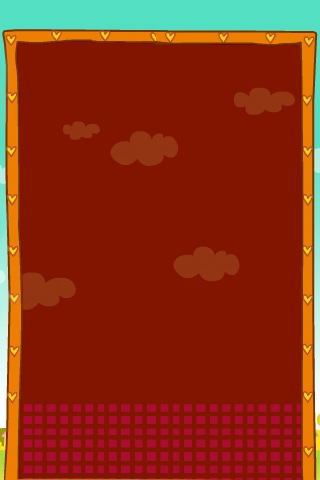
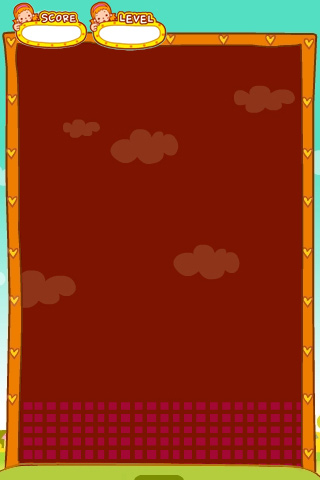
base

diff --git a/Game/src/Layer/GameLayer.js b/Game/src/Layer/GameLayer.js
@@ -6,16 +6,34 @@ PP.GameLayer = cc.Layer.extend({
     tmpBubble: cc.p(0, 0),
     _rotation: 0,
     player: null,
+    container:null,
     init: function () {
         this._super();
         window.layer = this;
+        var t = sys.platform;
+        var os = sys.os;
         this.setTouchEnabled(true);
+        /*if(t = 'browser'){
+            this.setMouseEnabled(true);
+        }
+        else{
+            this.setTouchEnabled(true);
+        }*/
+
+
+        if(cc.renderMode = cc.WEBGL){
+            this.container = cc.SpriteBatchNode.create(Bubble_png);
+            this.addChild(this.container,100);
+        }
+        else{
+            this.container = this;
+        }
 
         this.noj = [];
         this.speed = 1116;
         this.diameter = 34;
         this.px = 24;
-        this.py = 480 - 46;
+        this.py = 480 - 52;
         this.poc2 = 3;
         this.deathy = 400;
         this.allst = 30;
@@ -57,9 +75,15 @@ PP.GameLayer = cc.Layer.extend({
         this.isStoped = this.u = this.vib = this.vk = 0;
         this.ga = 3;
 
-        this.player = cc.Sprite.create("res/a2.png");
-        this.player.setPosition(cc.p(160, 16));
-        this.addChild(this.player);
+        this.player = cc.Sprite.create(Turret);
+        this.player.setAnchorPoint(cc.p(0.5,0.31))
+        this.player.setPosition(cc.p(160, 36));
+        this.addChild(this.player,11);
+
+        var pad = cc.Sprite.create(Pad);
+        pad.setPosition(cc.p(160,10));
+        this.addChild(pad,10);
+
         this.setting(this.stg);
         this.newBubble();
     },
@@ -78,7 +102,7 @@ PP.GameLayer = cc.Layer.extend({
             if (level[i] > 0) {
                 var bubble = PP.Bubble.create(level[i]);
                 bubble.setPosition(cc.p(sx, sy));
-                this.addChild(bubble, this.depth, lines * 10 + ars);
+                this.container.addChild(bubble, this.depth, lines * 10 + ars);
                 bubble.colorType = level[i];
                 this.allBubbles.push(bubble);
                 ++this.depth;
@@ -201,7 +225,7 @@ PP.GameLayer = cc.Layer.extend({
                     var nump = np + this.arp[j];
                     var numn = nn + this["arn" + ch][j];
                     var n = nump * 10 +numn;
-                    var child = this.getChildByTag(n);
+                    var child = this.container.getChildByTag(n);
                     if (child && child.colorType < 10) {
                         this.res.push(n);
                     }
@@ -260,7 +284,7 @@ PP.GameLayer = cc.Layer.extend({
                     var nump = np + this.arp[j];
                     var numn = nn + this["arn" + ch][j];
                     var n = nump * 10 + numn;
-                    var child = this.getChildByTag(n);
+                    var child = this.container.getChildByTag(n);
                     if (child && child.colorType == key) {
                         this.res.push(n);
                     }
@@ -338,6 +362,8 @@ PP.GameLayer = cc.Layer.extend({
         }
         var spe = kk * 20;
         //score
+        this.game.getUILayer().addScore(spe);
+        console.log(1)
         /* _parent.sco = _parent.sco + spe;
          _parent.numv(_parent.sco, "scom", 6);
          _parent.spe.sco = spe;
@@ -359,28 +385,40 @@ PP.GameLayer = cc.Layer.extend({
     onTouchesBegan: function (touches) {
         this._super();
         this.mouse = touches[0].getLocation();
-        if (/*this.shts == 1 && */(this.mouse.x > 15 && this.mouse.x < 315)) {
-            var xdis = this.mouse.x - this.player.getPosition().x;
-            var ydis = this.mouse.y - this.player.getPosition().y;
-            var gagy = -(Math.atan2(ydis, xdis) / this.radian - 90);
-            if (gagy < 80 && gagy > -80) {
-                if (gagy != this.player.getRotation()) {
-                    this.player.setRotation(gagy);
-                }
-            }
-            this.gos();
-        }
     },
     onTouchesMoved: function (touches) {
         this._super();
+        this.mouse = touches[0].getLocation();
     },
     onTouchesEnded: function (touches) {
         this._super();
+        this.shoot();
+    },
+    onMouseDown:function(event) {
+        this._super();
+        this.mouse = event.getLocation();
+    },
+    onMouseMoved:function(event){
+        this._super();
+        this.mouse = event.getLocation();
+    },
+    onMouseDragged:function(event) {
+        this._super();
+        this.mouse = event.getLocation();
+    },
+    onMouseUp:function(event) {
+        this._super();
+        this.shoot();
+    },
+    shoot:function(){
+        if (/*this.shts == 1 && */(this.mouse.x > 15 && this.mouse.x < 315)) {
+            this.gos();
+        }
     },
     newBubble: function () {
         this.tmpBubble = PP.Bubble.create(this.colorType);
         this.tmpBubble.setPosition(this.player.getPosition());
-        this.addChild(this.tmpBubble, this.depth);
+        this.container.addChild(this.tmpBubble, this.depth);
         this.tmpBubble.colorType = this.colorType;
 
         var ext = 0 | (Math.random() * 50);
@@ -407,6 +445,15 @@ PP.GameLayer = cc.Layer.extend({
         //_parent.girl.colorType = colorType;
     },
     update: function (dt) {
+        var xdis = this.mouse.x - this.player.getPosition().x;
+        var ydis = this.mouse.y - this.player.getPosition().y;
+        var gagy = -(Math.atan2(ydis, xdis) / this.radian - 90);
+        if (gagy < 80 && gagy > -80) {
+            if (gagy != this.player.getRotation()) {
+                this.player.setRotation(gagy);
+            }
+        }
+
         if (this.isStoped == 1) {
             this.tmpBubble.setPosition(cc.pAdd(this.tmpBubble.getPosition(), cc.p(this.xSpeed * dt, this.ySpeed * dt)));
             for (var i = 0; i < this.allBubblesAmount; i++) {
@@ -424,7 +471,7 @@ PP.GameLayer = cc.Layer.extend({
                     for (var j = 0; j < 6; j++) {
                         var nump = np + this.arp[j];
                         var numn = nn + this["arn" + ch][j];
-                        var isExitBubble = this.getChildByTag(nump * 10 + numn);
+                        var isExitBubble = this.container.getChildByTag(nump * 10 + numn);
                         if (isExitBubble == null) {
                             var radian = this.radian * this.gag[j];
                             var tx = tempBubble.getPosition().x + Math.sin(radian) * this.diameter;
@@ -479,8 +526,8 @@ PP.GameLayer = cc.Layer.extend({
                             this.shts = this.dcup();
                         }
                     }
-                    else if (this.getChildByTag(gubl).colorType == 7) {
-                        var bomb = this.getChildByTag(gubl);
+                    else if (this.container.getChildByTag(gubl).colorType == 7) {
+                        var bomb = this.container.getChildByTag(gubl);
                         bomb.removeFromParent(true);
                         tag = gubl;
                         np = Math.floor(tag / 10);
@@ -492,7 +539,7 @@ PP.GameLayer = cc.Layer.extend({
                         for (var k = 0; k < 6; k++) {
                             nump = np + this.arp[k];
                             numn = nn + this["arn" + ch][k];
-                            var child = this.getChildByTag(nump * 10 + numn);
+                            var child = this.container.getChildByTag(nump * 10 + numn);
                             if (child && child.colorType < 9) {
                                 child.removeFromParent(true);
                                 for (var z = 0; z<this.allBubbles.length ; z++) {
@@ -543,7 +590,7 @@ PP.GameLayer = cc.Layer.extend({
             this.gg = this.noj.length;
             var tmpChild;
             for (var i = 0; i < this.gg; i++) {
-                tmpChild = this.getChildByTag(this.noj[i]);
+                tmpChild = this.container.getChildByTag(this.noj[i]);
                 if(tmpChild){
                     tmpChild.setPositionY(tmpChild.getPositionY()+5 + this.u * 4)
                 }
@@ -551,7 +598,7 @@ PP.GameLayer = cc.Layer.extend({
            /* if (this.u == 25) {
                 this.u = this.isStoped = 0;
                 for (var i = 0; i < this.gg; i++) {
-                    tmpChild = this.getChildByTag(this.noj[i]);
+                    tmpChild = this.container.getChildByTag(this.noj[i]);
                     if(tmpChild){
                         tmpChild.removeFromParent(true);
                     }

diff --git a/Game/src/Layer/UILayer.js b/Game/src/Layer/UILayer.js
@@ -1,0 +1,32 @@
+PP.UILayer = cc.Layer.extend({
+    scoreLabel:null,
+    levelLabel:null,
+    score:0,
+    level:0,
+    init:function(){
+        this._super();
+
+        this.scoreLabel = cc.LabelTTF.create(this.score,  'Arial', 14, cc.size(54,18), cc.TEXT_ALIGNMENT_CENTER);
+        this.scoreLabel.setPosition(cc.p(55,445));
+        this.scoreLabel.setColor(cc.c3b(140,22,0));
+        this.addChild(this.scoreLabel);
+
+        this.levelLabel = cc.LabelTTF.create(this.level,  'Arial', 14, cc.size(54,18), cc.TEXT_ALIGNMENT_CENTER);
+        this.levelLabel.setPosition(cc.p(130,445));
+        this.levelLabel.setColor(cc.c3b(140,22,0));
+        this.addChild(this.levelLabel);
+    },
+    setLevel:function(level){
+        //this.levelLabel.setString(level);
+    },
+    addScore:function(score){
+        this.score += score;
+        this.scoreLabel.setString(this.score);
+    }
+});
+
+PP.UILayer.create = function(){
+    var b = new PP.UILayer();
+    b.init();
+    return b;
+};

diff --git a/Game/src/Scene/GameScene.js b/Game/src/Scene/GameScene.js
@@ -1,6 +1,7 @@
 PP.GameScene = cc.Scene.extend({
     gameLayer:null,
     bgLayer:null,
+    uiLayer:null,
     init:function () {
         this._super();
         cc.SpriteFrameCache.getInstance().addSpriteFrames(Bubble_plist);
@@ -10,10 +11,17 @@ PP.GameScene = cc.Scene.extend({
 
         this.bgLayer = PP.BackgroundLayer.create();
         this.addChild(this.bgLayer, 0);
-        //this.setting(this.stg);
-        //this.newBubble();
+
+        this.uiLayer = PP.UILayer.create();
+        this.addChild(this.uiLayer, 11);
 
         this.schedule(this.update);
+    },
+    getGameLayer:function(){
+        return this.gameLayer;
+    },
+    getUILayer:function(){
+        return this.uiLayer;
     },
     update:function(dt){
         this.gameLayer.update(dt);

diff --git a/Game/src/resource.js b/Game/src/resource.js
@@ -1,11 +1,19 @@
 var Bubble_plist = "res/bubbles.plist";
 var Bubble_png = "res/bubbles.png";
+var Anim_plist = "res/anim.plist";
+var Anim_png = "res/anim.png";
 var Weapon = "res/a2.png";
 var GameBackground = "res/bg.jpg";
+var Turret = "res/turret.png";
+var Pad = "res/pad.png";
 
 var g_ressources = [
     {src:Bubble_plist},
     {src:Bubble_png},
+    {src:Anim_plist},
+    {src:Anim_png},
     {src:Weapon},
-    {src:GameBackground},
+    {src:Pad},
+    {src:Turret},
+    {src:GameBackground}
 ];

diff --git a/Game/cocos2d.js b/Game/cocos2d.js
@@ -43,6 +43,7 @@
             'src/Unit/Bubble.js',
             'src/Layer/GameLayer.js',
             'src/Layer/BackgroundLayer.js',
+            'src/Layer/UILayer.js',
             'src/Scene/GameScene.js'
         ]
     };
